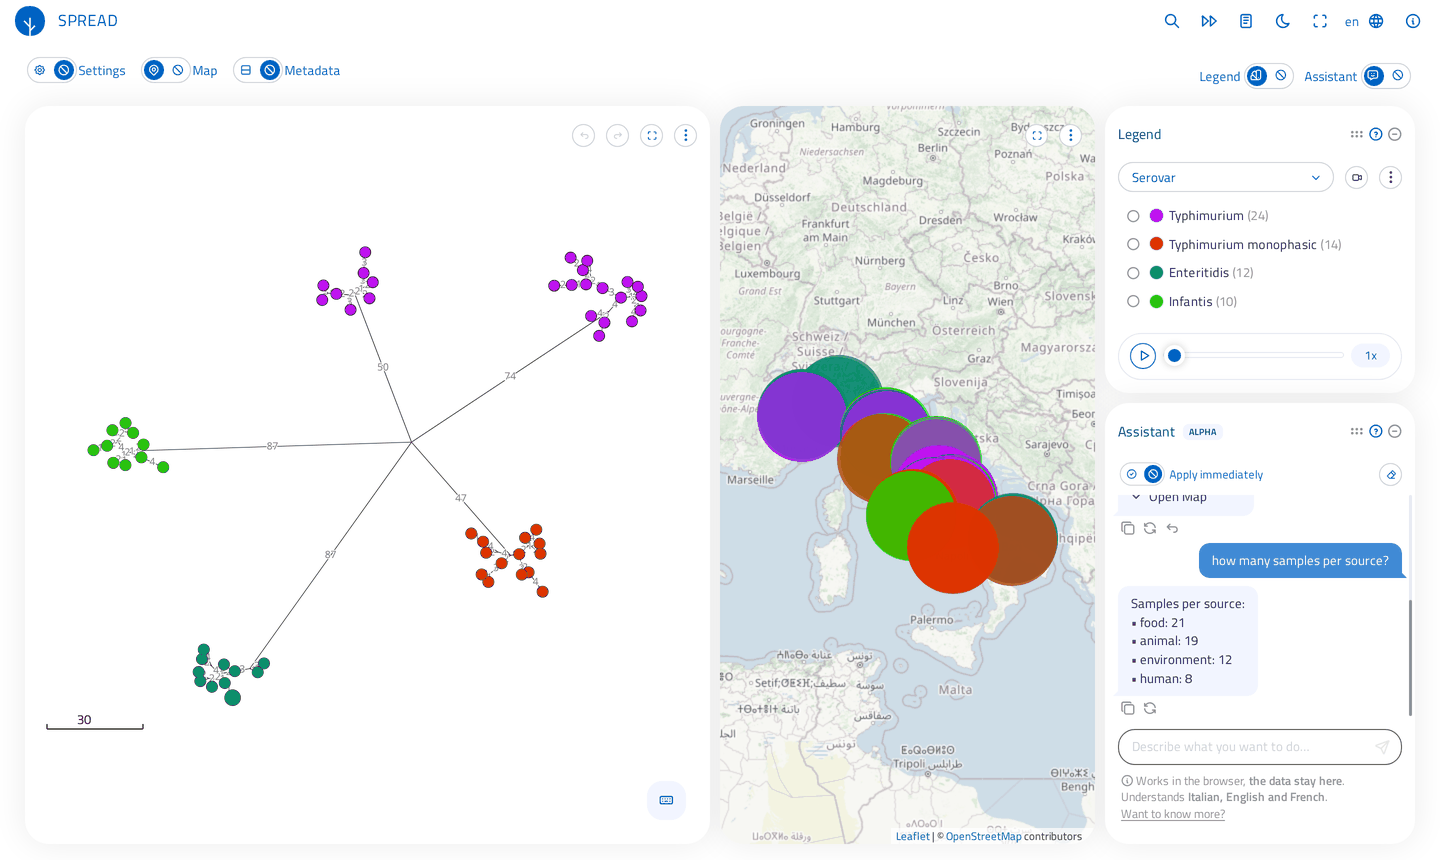
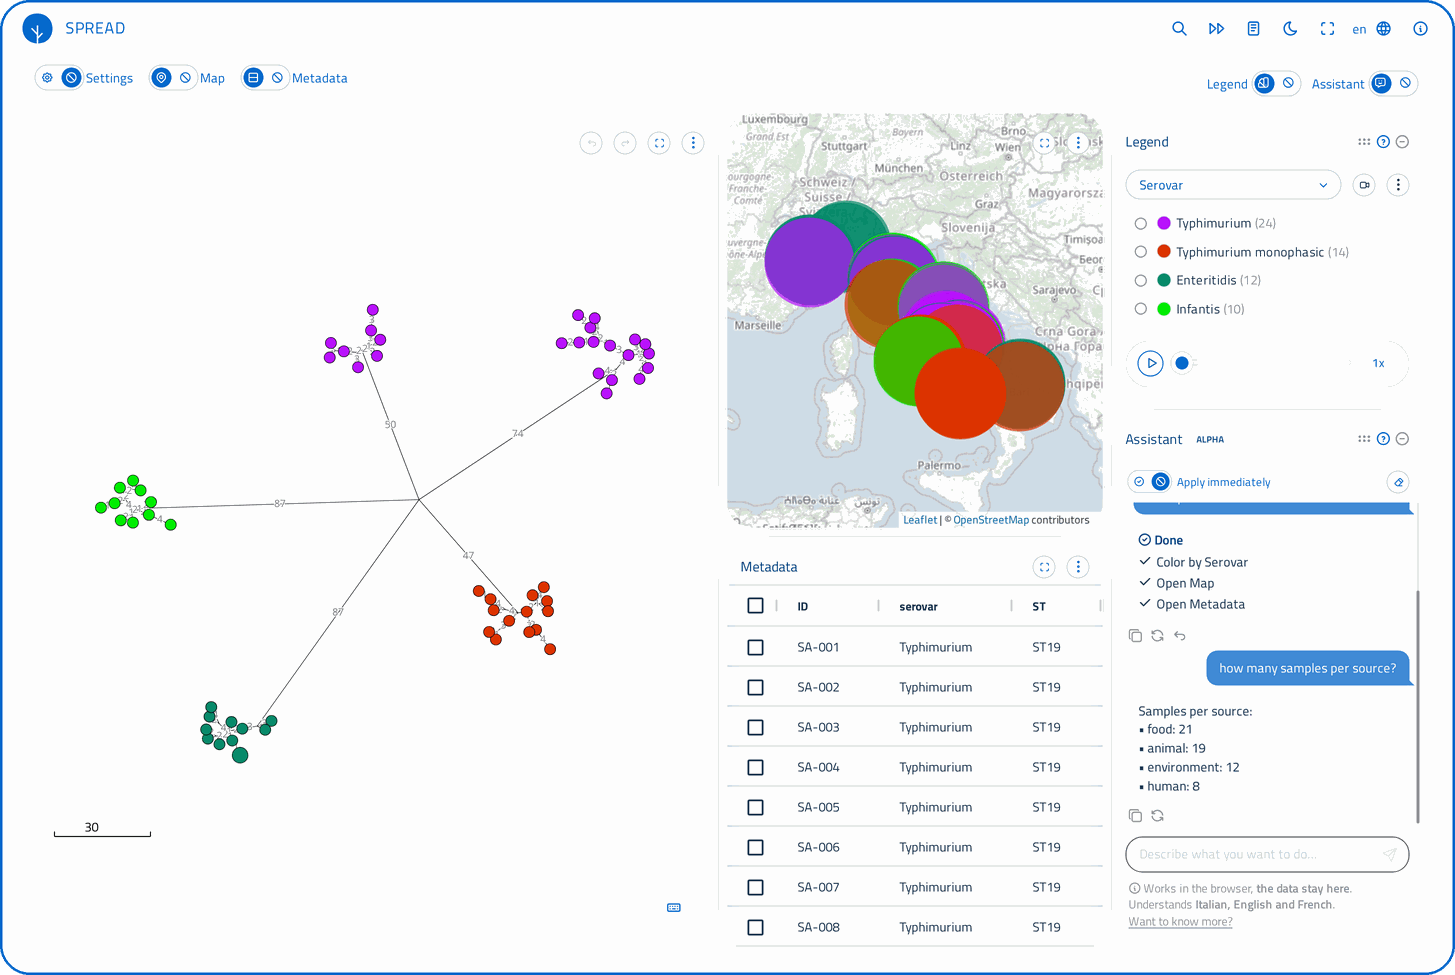
docs: README screenshot with the metadata table, framed in SPREAD blue

diff --git a/README.md b/README.md
@@ -10,12 +10,12 @@ Phylogenetic tree, map, timeline and metadata of an outbreak in one page, with a
 </p>
 
 <p align="center">
-  <a href="https://genpat-it.github.io/spread/?demo"><img src="img/readme-demo.png" width="900" alt="SPREAD demo: the tree coloured by serovar, the map and the assistant answering how many samples per source"></a>
+  <a href="https://genpat-it.github.io/spread/?demo"><img src="img/readme-demo.png" width="900" alt="SPREAD demo: the tree coloured by serovar, the map, the metadata table, the legend and the assistant answering how many samples per source"></a>
 </p>
 
 Open the demo and type in the **Assistant** card, in English, Italian or French:
 
-* `colour the tree by serovar and open the map`
+* `colour the tree by serovar, open the map and open the metadata`
 * `how many samples per source?`
 * `where is the logarithmic scale?`
 
